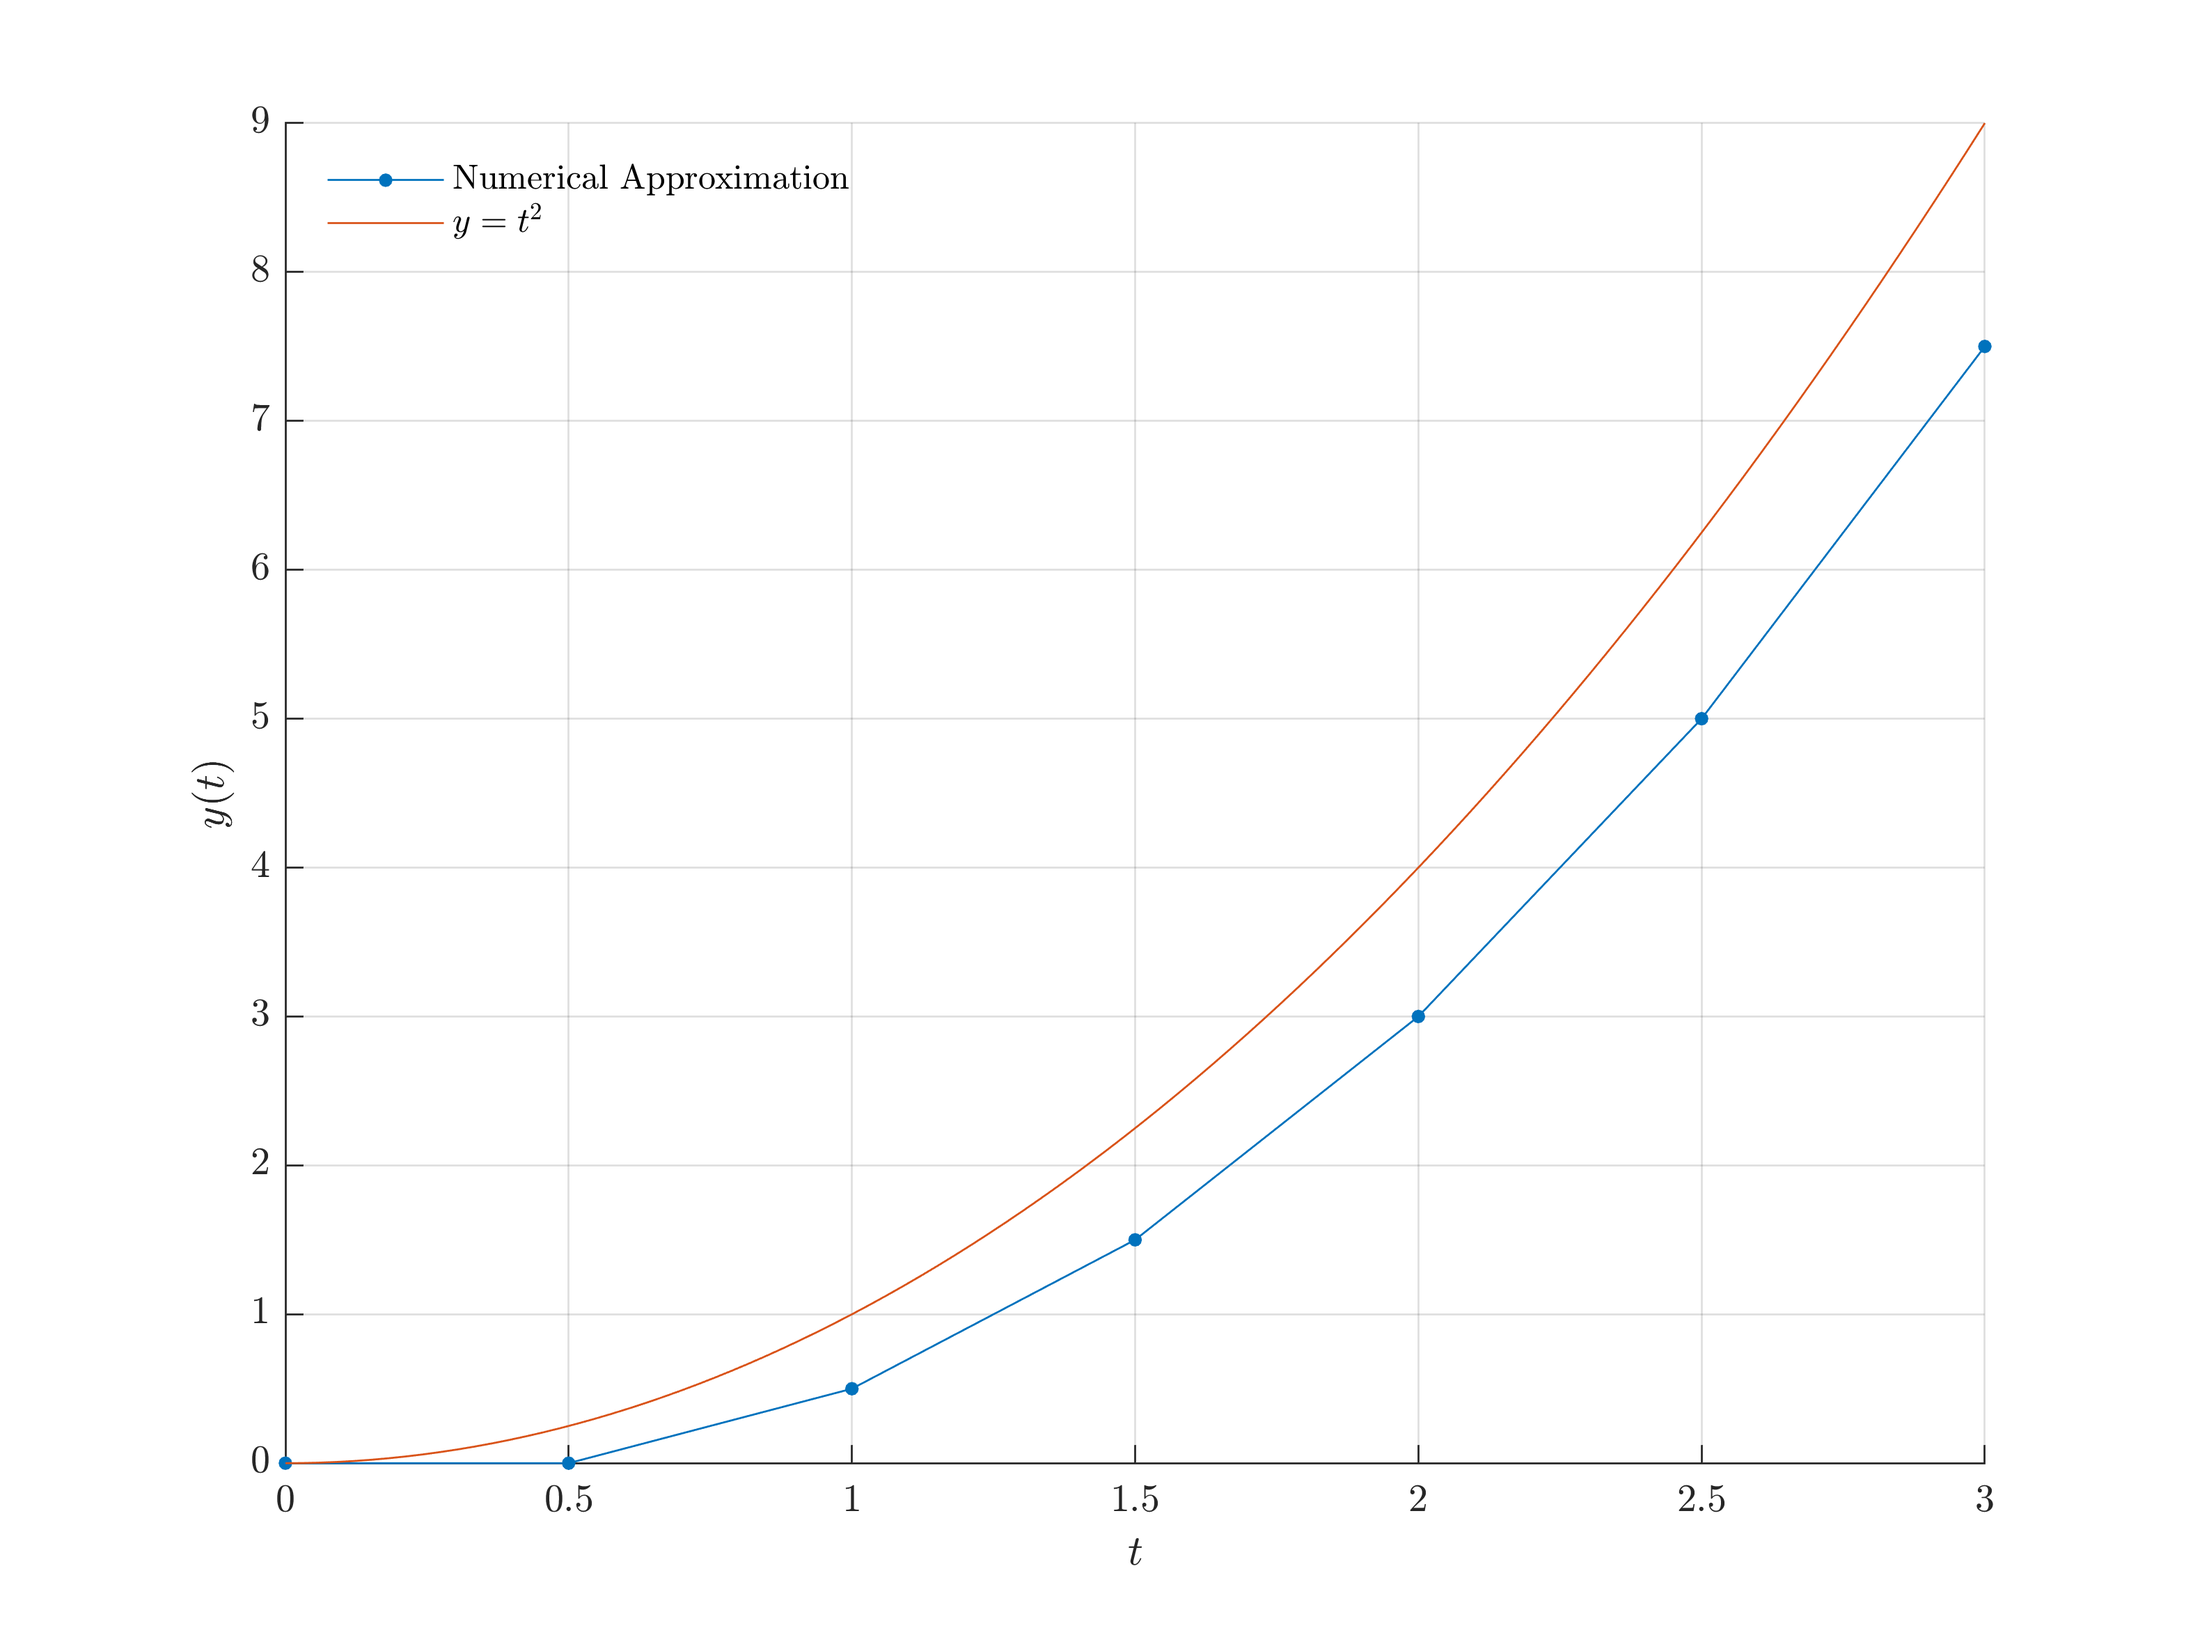
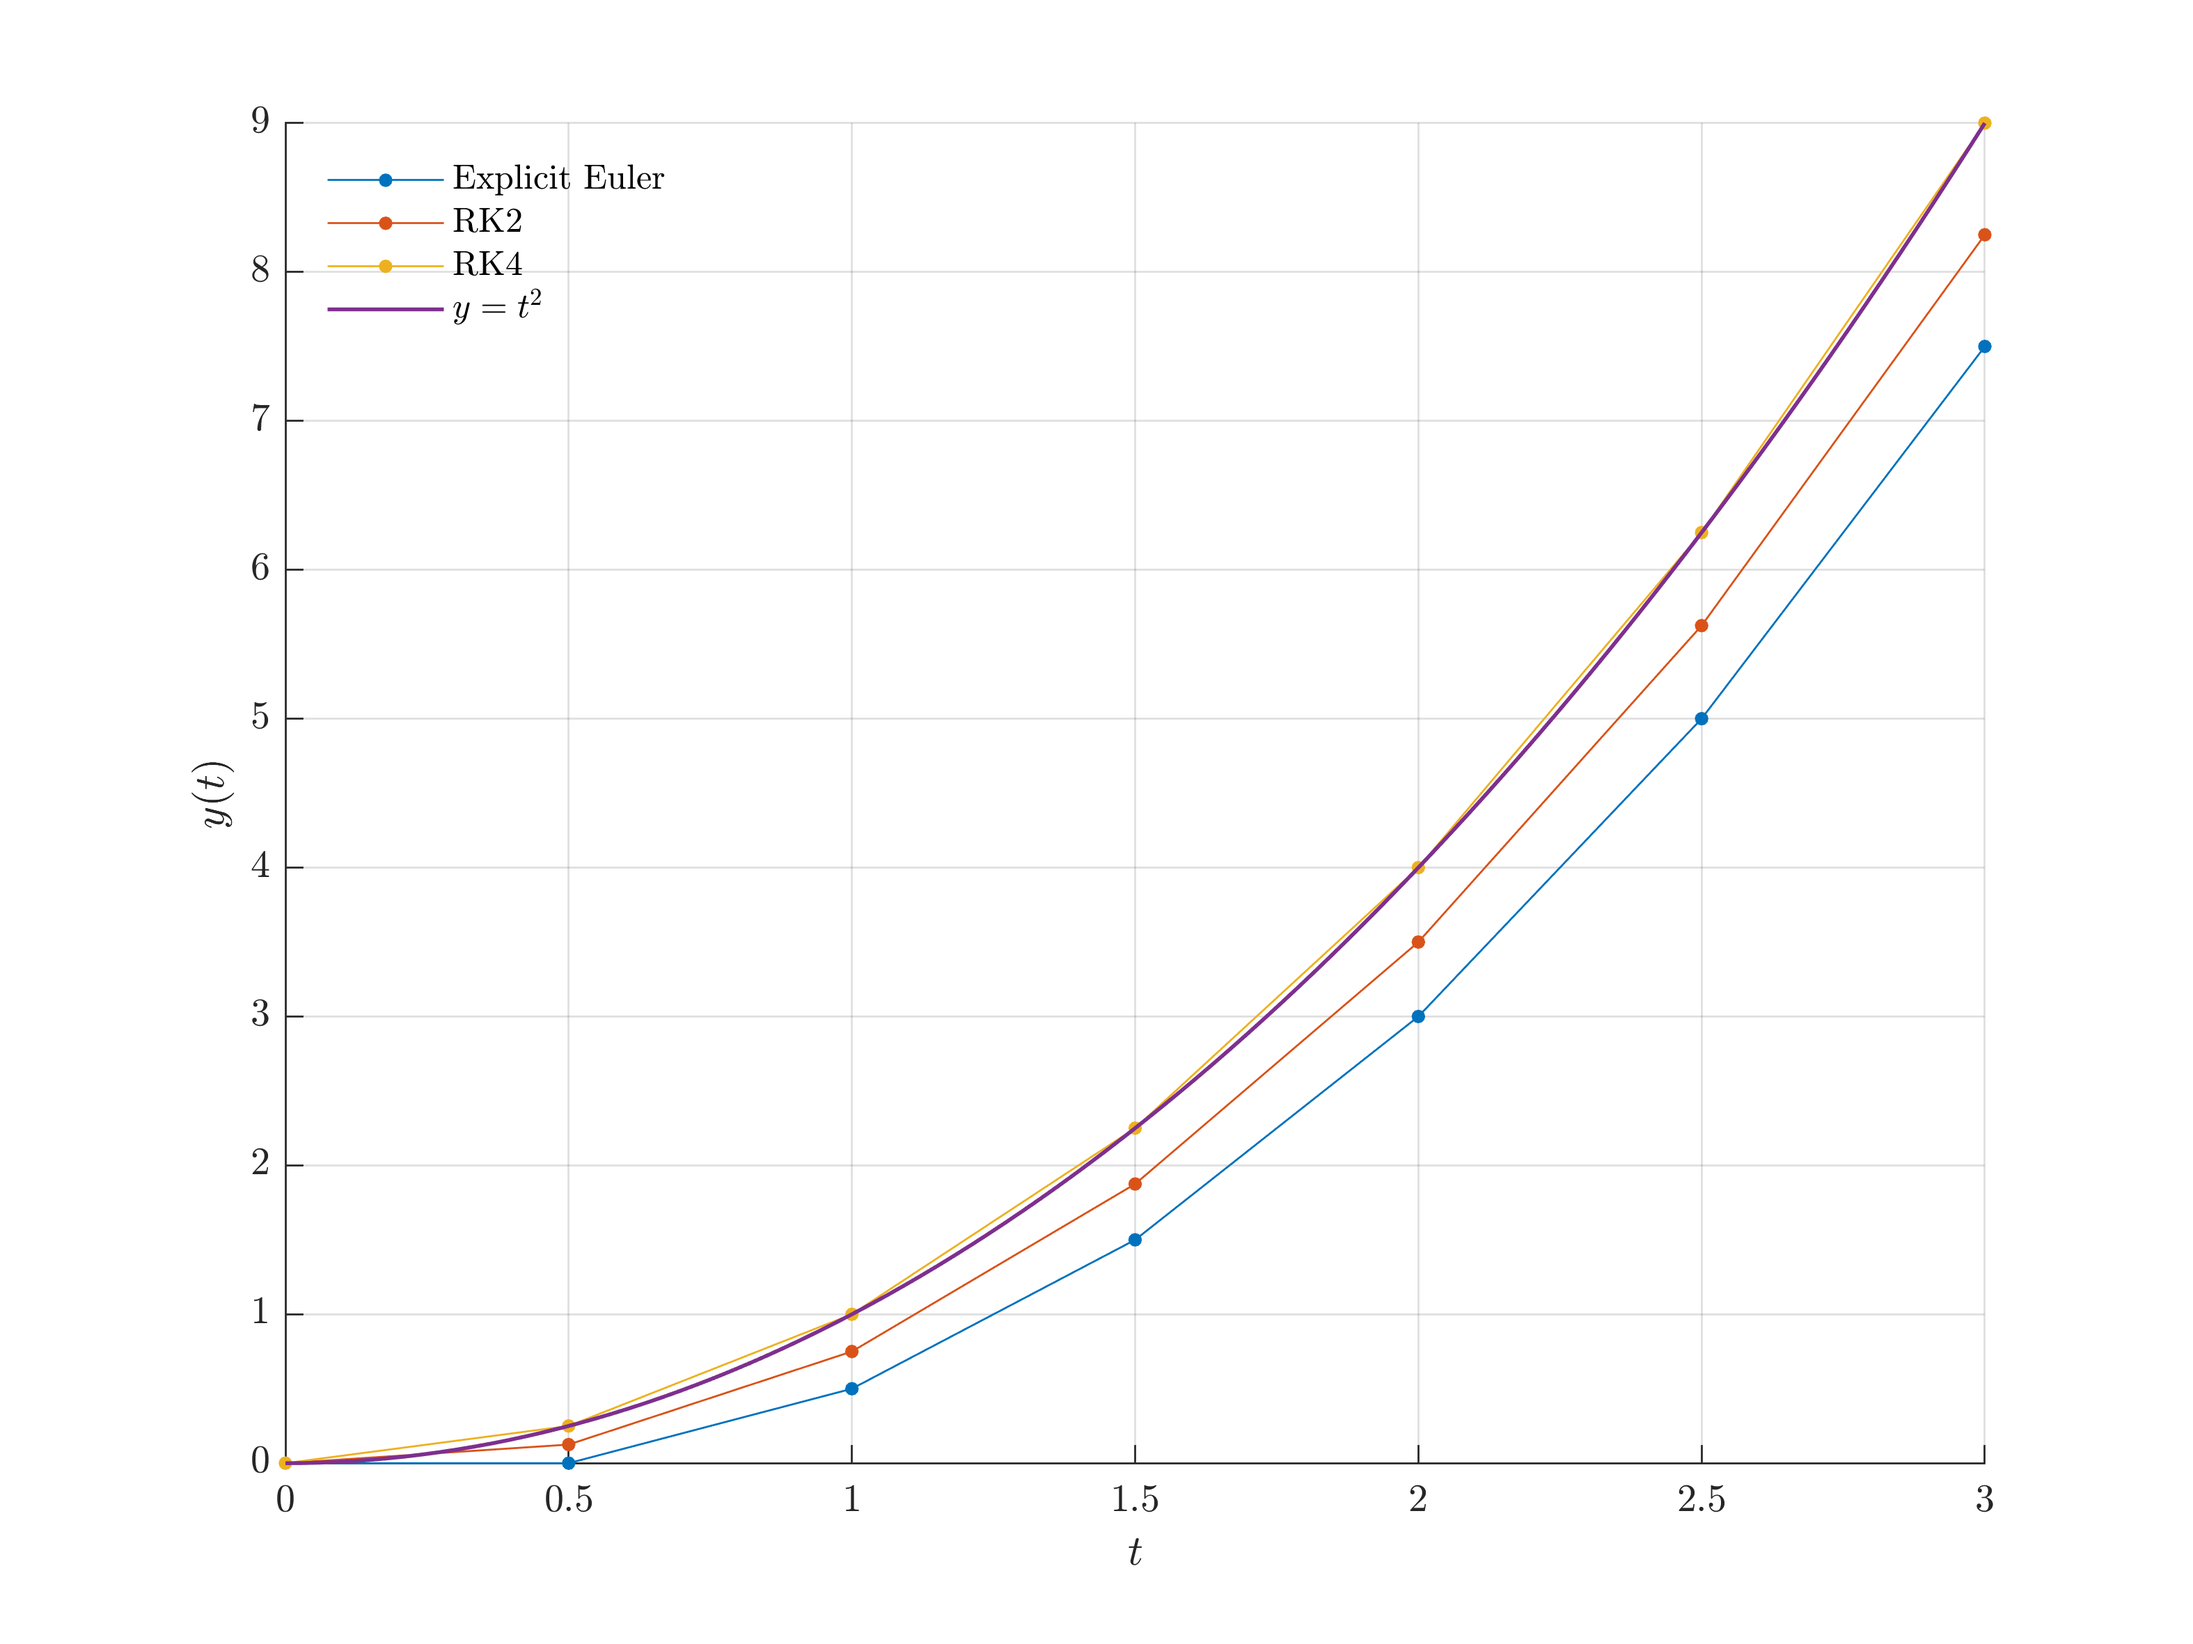
script push

diff --git a/6DoF Explanation Scripts/NumericalIntegratorErrorNyquist.m b/6DoF Explanation Scripts/NumericalIntegratorErrorNyquist.m
@@ -1,0 +1,144 @@
+% Numerical Integrator Error Showcase:
+close all; clear; clc;
+
+% initial condition, y(0) = 0
+y = 0;
+yRK2 = y;
+yRK4 = y;
+
+% timespan over which to integrate:
+dt = 0.5;
+tEnd = 2;
+t = 0:dt:tEnd;
+
+%integration loop:
+for i=1:length(t)-1
+    % numerically integrate with explicit euler
+    y(i+1) = y(i) + YDot(t(i),y(i)) * dt;
+    % numerically integrate with RK2
+    yRK2(i+1) = rk2(@(t,y)YDot(t(i),y), dt, t, yRK2(i));
+    % numerically integrate with RK4
+    yRK4(i+1) = rk4(@(t,y)YDot(t(i),y), dt, t, yRK4(i));
+end
+
+% tspan for the original function:
+tspanCurve = linspace(0,tEnd, 1000);
+
+%figure plotting:
+hfig = figure;  % save the figure handle in a variable
+fname = 'Numerical Integrator Nyquist 1';
+
+picturewidth = 20; % set this parameter and keep it forever
+hw_ratio = 0.75; % feel free to play with this ratio
+set(findall(hfig,'-property','FontSize'),'FontSize',18) % adjust fontsize to your document
+
+plot(t, y, '.', LineStyle='-', MarkerSize= 12)
+hold on
+plot(t, yRK2, '.', LineStyle='-', MarkerSize= 12)
+plot(t, yRK4, '.', LineStyle='-', MarkerSize= 12)
+plot(tspanCurve, 1/(4*pi)*sin(4*pi*tspanCurve), LineWidth=1)
+
+legend('Explicit Euler', 'RK2', 'RK4', '$y=\frac{1}{4\pi}sin(4\pi t)$', 'Location', 'northwest')
+
+%title('Explicit Euler Numerical Approximation')
+xlabel('$t$')
+ylabel('$y(t)$')
+
+grid on
+axis tight
+
+set(findall(hfig,'-property','Box'),'Box','off') % optional
+set(findall(hfig,'-property','Interpreter'),'Interpreter','latex') 
+set(findall(hfig,'-property','TickLabelInterpreter'),'TickLabelInterpreter','latex')
+set(hfig,'Units','centimeters','Position',[3 3 picturewidth hw_ratio*picturewidth])
+pos = get(hfig,'Position');
+set(hfig,'PaperPositionMode','Auto','PaperUnits','centimeters','PaperSize',[pos(3), pos(4)])
+print(hfig,fname,'-dpng','-r400')
+
+% Part II:
+
+dtList = [0.4,0.26,0.1];
+
+yRK42 = zeros(4, 32);
+%tList = zeros(4,32);
+
+forLength = tEnd ./ dtList;
+
+tList1 = 0:dtList(1):tEnd;
+tList2 = 0:dtList(2):tEnd;
+tList3 = 0:dtList(3):tEnd;
+
+int1 = rk4Integrate(dtList(1), tList1);
+int2 = rk4Integrate(dtList(2), tList2);
+int3 = rk4Integrate(dtList(3), tList3);
+
+%figure plotting:
+hfig = figure;  % save the figure handle in a variable
+fname = 'Numerical Integrator Nyquist 2';
+
+picturewidth = 20; % set this parameter and keep it forever
+hw_ratio = 0.9; % feel free to play with this ratio
+set(findall(hfig,'-property','FontSize'),'FontSize',18) % adjust fontsize to your document
+
+plot(tList1, int1, '.', LineStyle='-', MarkerSize= 12, LineWidth=1)
+hold on
+plot(tList2, int2, '.', LineStyle='-', MarkerSize= 12, LineWidth=1)
+plot(tList3, int3, '.', LineStyle='-', MarkerSize= 12, LineWidth=1)
+
+plot(tspanCurve, 1/(4*pi)*sin(4*pi*tspanCurve), LineWidth=1.5)
+
+legend('$\Delta t=0.4s$', '$\Delta t=0.26s$', '$\Delta t=0.1s$','$y=\frac{1}{4\pi}sin(4\pi t)$', 'Location', 'northwest')
+
+%title('Explicit Euler Numerical Approximation')
+xlabel('$t$')
+ylabel('$y(t)$')
+
+grid on
+axis tight
+
+set(findall(hfig,'-property','Box'),'Box','off') % optional
+set(findall(hfig,'-property','Interpreter'),'Interpreter','latex') 
+set(findall(hfig,'-property','TickLabelInterpreter'),'TickLabelInterpreter','latex')
+set(hfig,'Units','centimeters','Position',[3 3 picturewidth hw_ratio*picturewidth])
+pos = get(hfig,'Position');
+set(hfig,'PaperPositionMode','Auto','PaperUnits','centimeters','PaperSize',[pos(3), pos(4)])
+print(hfig,fname,'-dpng','-r400')
+
+
+% functions
+
+%euler
+function[out] = YDot(t,Y)
+out = cos(2*pi/0.5*t);
+end
+
+%rk2
+function out = rk2(fun, dt, tIn, xIn)
+    f1 = fun(tIn,xIn);
+    f2 = fun(tIn + dt/2, xIn + dt .* f1);
+    
+    out = xIn + (dt / 2)*(f1 + f2);
+end
+
+%rk4
+function out = rk4(fun, dt, tIn, xIn)
+    f1 = fun(tIn,xIn);
+    f2 = fun(tIn + dt/2, xIn + (dt/2) .* f1);
+    f3 = fun(tIn + dt/2, xIn + (dt/2) .* f2);
+    f4 = fun(tIn + dt, xIn + dt*f3);
+    
+    out = xIn + (dt / 6)*(f1 + 2*f2 + 2*f3+f4);
+end
+
+% rk4 integrator
+function out = rk4Integrate(dt, t)
+Y = 0;
+
+    for i=1:length(t)-1
+        % numerically integrate with RK4
+        Y(i+1) = rk4(@(t,y)YDot(t(i),y), dt, t, Y(i));
+    end
+    out = Y;
+end
+
+

diff --git a/6DoF Explanation Scripts/NumericalIntegratorError.m b/6DoF Explanation Scripts/NumericalIntegratorError.m
@@ -1,37 +1,44 @@
 % Numerical Integrator Error Showcase:
 close all; clear; clc;
 
-% Describe our initial ODE:
-
-% describe the state vector, Y:
-
 % initial condition, y(0) = 0
-Y = 0;
+y = 0;
+yRK2 = y;
+yRK4 = y;
 
 % timespan over which to integrate:
 dt = 0.5;
 tEnd = 3;
 t = 0:dt:tEnd;
 
-% numerically integrate with explicit euler
-for i=1:length(t)
-    Y(i+1) = Y(i) + YDot(t(i),Y) * dt;
+%integration loop:
+for i=1:length(t)-1
+    % numerically integrate with explicit euler
+    y(i+1) = y(i) + YDot(t(i),y(i)) * dt;
+    % numerically integrate with RK2
+    yRK2(i+1) = rk2(@(t,y)YDot(t(i),y), dt, t, yRK2(i));
+    % numerically integrate with RK4
+    yRK4(i+1) = rk4(@(t,y)YDot(t(i),y), dt, t, yRK4(i));
 end
 
-tspan = linspace(0,tEnd, 100);
+% tspan for the original function:
+tspanCurve = linspace(0,tEnd, 100);
 
+%figure plotting:
 hfig = figure;  % save the figure handle in a variable
-fname = 'Explicit Euler Approximation Figure';
+fname = 'Numerical Integrator Comparison Figure';
 
 picturewidth = 20; % set this parameter and keep it forever
 hw_ratio = 0.75; % feel free to play with this ratio
 set(findall(hfig,'-property','FontSize'),'FontSize',18) % adjust fontsize to your document
 
-plot(t, Y(1:end-1), '.', LineStyle='-', MarkerSize= 12)
+plot(t, y, '.', LineStyle='-', MarkerSize= 12)
 hold on
-plot(tspan, tspan.^2)
+plot(t, yRK2, '.', LineStyle='-', MarkerSize= 12)
+plot(t, yRK4, '.', LineStyle='-', MarkerSize= 12)
+plot(tspanCurve, tspanCurve.^2, LineWidth=1)
 
-legend('Numerical Approximation', '$y=t^2$', 'Location', 'northwest')
+legend('Explicit Euler', 'RK2', 'RK4', '$y=t^2$', 'Location', 'northwest')
 
 %title('Explicit Euler Numerical Approximation')
 xlabel('$t$')
@@ -48,6 +55,28 @@ pos = get(hfig,'Position');
 set(hfig,'PaperPositionMode','Auto','PaperUnits','centimeters','PaperSize',[pos(3), pos(4)])
 print(hfig,fname,'-dpng','-r400')
 
+
+% functions
+
+%euler
 function[out] = YDot(t,Y)
 out = 2 * t;
+end
+
+%rk2
+function out = rk2(fun, dt, tIn, xIn)
+    f1 = fun(tIn,xIn);
+    f2 = fun(tIn + dt/2, xIn + dt .* f1);
+    
+    out = xIn + (dt / 2)*(f1 + f2);
+end
+
+%rk4
+function out = rk4(fun, dt, tIn, xIn)
+    f1 = fun(tIn,xIn);
+    f2 = fun(tIn + dt/2, xIn + (dt/2) .* f1);
+    f3 = fun(tIn + dt/2, xIn + (dt/2) .* f2);
+    f4 = fun(tIn + dt, xIn + dt*f3);
+    
+    out = xIn + (dt / 6)*(f1 + 2*f2 + 2*f3+f4);
 end
